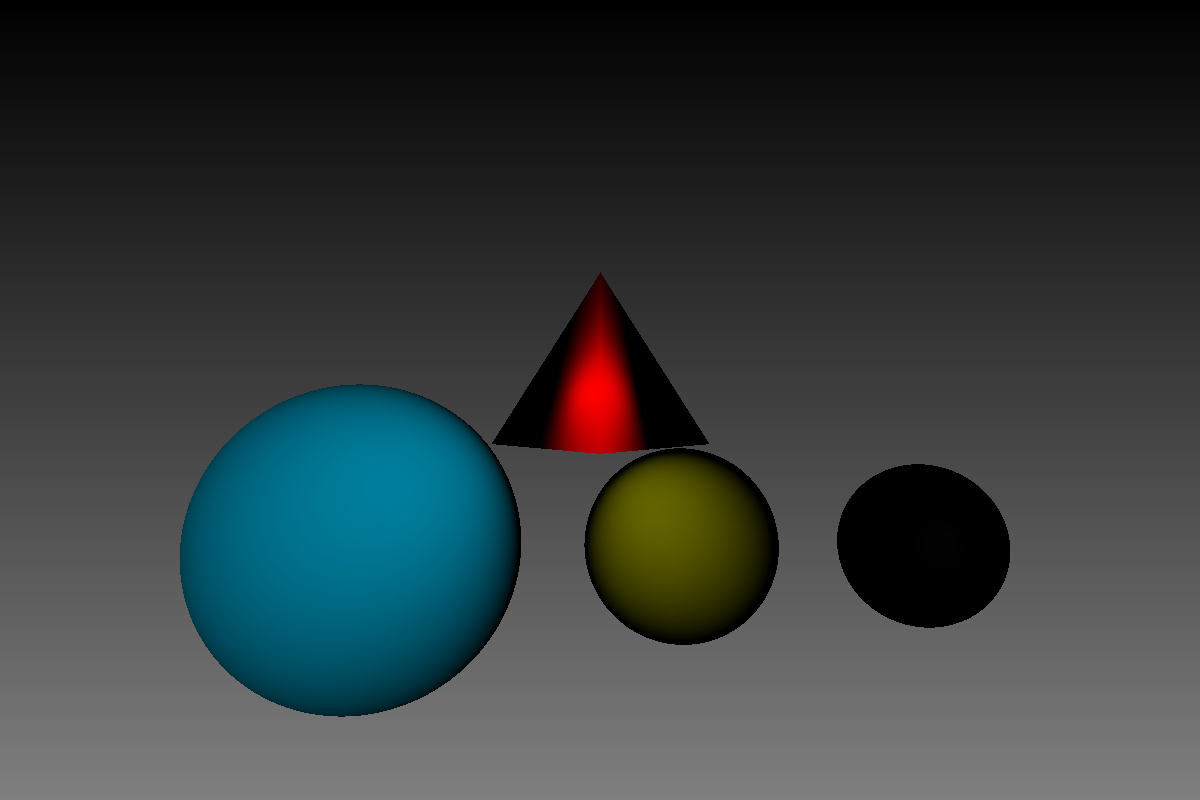
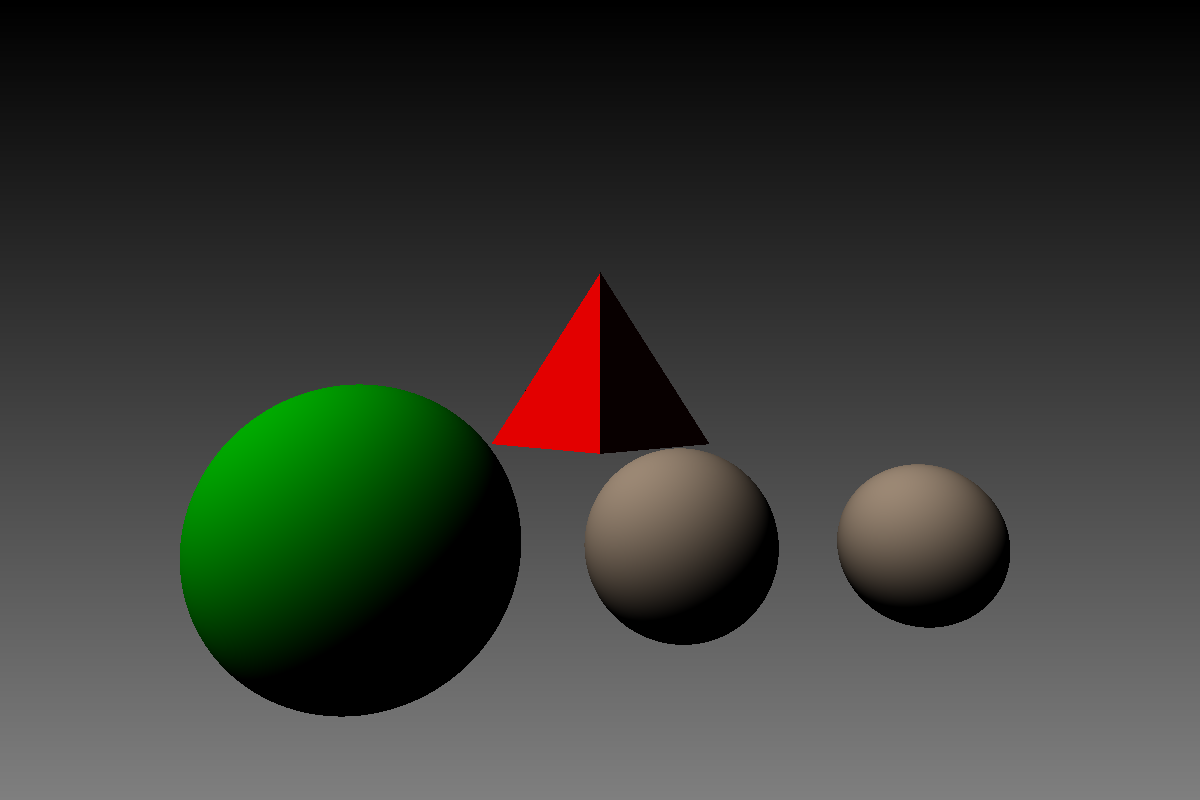
diffuse

Changed region(s): [[0.1233, 0.3438, 0.6475, 0.9062], [0.6783, 0.5625, 0.8325, 0.75]]

diff --git a/geometry/sphere.go b/geometry/sphere.go
@@ -3,35 +3,55 @@ package geometry
 import (
 	"GoPath/color"
 	. "GoPath/core"
+	"GoPath/material"
 	"math"
 )
 
+//Sphere primitive
 type Sphere struct {
 	CT          Vec
 	R           float64
 	objectColor color.Color32
+	material    material.Material
 }
 
 //Returns Normal Vector of Sphere at Hitpoint
-func (S Sphere) Normal(ray Ray, HitPoint Vec) Vec {
+func (S *Sphere) Normal(ray Ray, HitPoint Vec) Vec {
 	Nhit := HitPoint.Sub(S.CT).Normalized()
 
 	return Nhit
 }
 
-func NewSphere(center Vec, radius float64) Sphere {
-	return Sphere{center, radius, color.Gray32(0.8)}
+//SetMaterial defines a Material for the Sphere
+func (S *Sphere) SetMaterial(mat material.Material) {
+	S.material = mat
 }
 
+//Material returns the Spheres Material
+func (S *Sphere) Material() material.Material {
+	return S.material
+}
+
+//NewSphere creates a new Sphere with default Material
+func NewSphere(center Vec, radius float64) *Sphere {
+	return &Sphere{
+		CT:          center,
+		R:           radius,
+		objectColor: color.Gray32(0.8),
+		material:    material.Default()}
+}
+
+//SetObjectColor sets an ObjectColor
 func (S *Sphere) SetObjectColor(c color.Color32) {
 	S.objectColor = c
 }
 
-func (S Sphere) ObjectColor() color.Color32 {
+//ObjectColor returns Objectcolor
+func (S *Sphere) ObjectColor() color.Color32 {
 	return S.objectColor
 }
 
-//returns true if Ray intersects Sphere and sets t to depth of Hitpoint
+//Intersect returns true if Ray intersects Sphere and sets t to depth of Hitpoint
 func (S Sphere) Intersect(ray Ray, t *float64) bool {
 	L := S.CT.Sub(ray.O)
 	tca := Dot(L, ray.D)

diff --git a/core/vec.go b/core/vec.go
@@ -1,7 +1,9 @@
 package core
 
-import ("math" 
-		"fmt")
+import (
+	"fmt"
+	"math"
+)
 
 type Vec struct {
 	X, Y, Z float64
@@ -27,14 +29,14 @@ func (a *Vec) Sub(b Vec) Vec {
 
 //Returns the Length of a Vector as float64
 func (v *Vec) Length() float64 {
-	return math.Sqrt(v.X * v.X + v.Y * v.Y + v.Z * v.Z)
+	return math.Sqrt(v.X*v.X + v.Y*v.Y + v.Z*v.Z)
 }
 
 //Normalizes an Vector and returns it
 func (v *Vec) Normalize() Vec {
 	len := v.Length()
 	if len > 0 {
-		invLen := 1/len
+		invLen := 1 / len
 		v.X *= invLen
 		v.Y *= invLen
 		v.Z *= invLen
@@ -43,11 +45,11 @@ func (v *Vec) Normalize() Vec {
 }
 
 //Method - returns normalized Vector
-func(a Vec) Normalized() Vec {
+func (a Vec) Normalized() Vec {
 	len := a.Length()
 	V := a
-	
-	if(len > 0) {
+
+	if len > 0 {
 		invLen := 1 / len
 		V.X *= invLen
 		V.Y *= invLen
@@ -56,19 +58,27 @@ func(a Vec) Normalized() Vec {
 	return V
 }
 
+//Method - Negated
+func (a Vec) Negated() Vec {
+	V := a
+	V.X = -a.X
+	V.Y = -a.Y
+	V.Z = -a.Z
+	return V
+}
+
 func Dot(a, b Vec) float64 {
 	//function - Dot Product
-	return a.X * b.X + a.Y * b.Y + a.Z * b.Z
+	return a.X*b.X + a.Y*b.Y + a.Z*b.Z
 }
 
 func Cross(a, b Vec) Vec {
 	//function - Cross Product
-	return Vec{	a.Y * b.Z - a.Z * b.Y,
-				a.Z * b.X - a.X * b.Z,
-				a.X * b.Y - a.Y * b.X}
+	return Vec{a.Y*b.Z - a.Z*b.Y,
+		a.Z*b.X - a.X*b.Z,
+		a.X*b.Y - a.Y*b.X}
 	//TODO: Eventuell normalized() zurückgeben
 }
-
 
 //Multiplies a Vector with a float64 and returns it.
 func (v *Vec) Multiply(f float64) Vec {

diff --git a/render/render.go b/render/render.go
@@ -1,12 +1,12 @@
 package render
 
 import (
-	"image"
-
 	"GoPath/color"
 	. "GoPath/core"
 	"GoPath/geometry"
 	"GoPath/util"
+	"image"
+	"math"
 )
 
 func Render(objectArray []geometry.Geometry, cam_or Vec, WIDTH, HEIGHT int, filename string) {
@@ -59,21 +59,19 @@ func Render(objectArray []geometry.Geometry, cam_or Vec, WIDTH, HEIGHT int, file
 			}
 
 			if intersect == true {
+				//hitColor = hitObject->albedo / M_PI * light->intensity * light->color * std::max(0.f, hitNormal.dotProduct(L));
+
 				HitPoint := ray.O.Add(ray.D.Multiply(tMin))
+				Normal := objectArray[ObjectHitIndex].Normal(ray, HitPoint)
 
-				//Light Attendance
-				LightPos := Vec{-6, 1, 1}
-				LightAttendance := Dot(HitPoint.Normalized(), LightPos.Normalized())
+				LightDir := Vec{0.3, -0.4, -0.6}.Normalized()
+				L := LightDir.Negated()
 
-				//Placeholder Color TODO!
-				//Color Spheres (color multiplied with Light Attendance)
-				//col = color.Gray32(float32(ObjectHitIndex) / 5)
+				c1 := color.Divide(cObj.Material().BaseColor(), color.Gray32(3.14))
+				cMax := float32(math.Max(0.0, Dot(Normal, L)))
+				c2 := color.MultiplyF(color.Color32{0.8, 0.7, 0.6}, 3*cMax)
+				col = color.Multiply(c1, c2)
 
-				//Normal:
-				col = color.FromVec(objectArray[ObjectHitIndex].Normal(ray, HitPoint))
-
-				//Objectcolor * Light Attendance
-				col = color.Multiply(cObj.ObjectColor(), color.Gray32(float32(LightAttendance)))
 				col.Clamp()
 			}
 			//convert float32 colors to 24 bit (0-255) color and save

diff --git a/main.go b/main.go
@@ -1,16 +1,13 @@
 package main
 
 import (
-	"fmt"
-
-	//"strconv"
-	//"time"
-
 	"GoPath/color"
 	. "GoPath/core"
-
 	"GoPath/geometry"
+	"GoPath/material"
 	. "GoPath/render"
+	"fmt" //"strconv"
+	//"time"
 )
 
 func main() {
@@ -25,8 +22,12 @@ func main() {
 	sp2 := geometry.NewSphere(Vec{0, 1.5, -0.9}, 1)
 	sp3 := geometry.NewSphere(Vec{0, -2, -0.9}, 0.5)
 
-	sp1.SetObjectColor(color.Color32{1, 1, 0})
-	sp2.SetObjectColor(color.Color32{0, 0.8, 1})
+	sp2.SetMaterial(material.StandardMaterial{
+		Color:     color.GREEN,
+		Specular:  0.5,
+		Roughness: 0,
+		Rim:       0,
+	})
 
 	//CuPyramid
 	v1 := Vec{-0.5, 0, -0.3}
@@ -34,12 +35,12 @@ func main() {
 	v3 := Vec{0.5, 0.75, -0.3}
 	v4 := Vec{0, 0, 0.8}
 
-	tri1 := geometry.Tri{v2, v1, v3}
-	tri2 := geometry.Tri{v4, v2, v1}
-	tri3 := geometry.Tri{v2, v3, v4}
-	tri4 := geometry.Tri{v1, v3, v4}
+	tri1 := geometry.NewTri(v2, v1, v3)
+	tri2 := geometry.NewTri(v4, v2, v1)
+	tri3 := geometry.NewTri(v2, v3, v4)
+	tri4 := geometry.NewTri(v1, v3, v4)
 
-	ObArray := []geometry.Geometry{&sp1, &sp2, &sp3, &tri1, &tri2, &tri3, &tri4}
+	ObArray := []geometry.Geometry{sp1, sp2, sp3, tri1, tri2, tri3, tri4}
 
 	/*
 		//Benchmark

diff --git a/geometry/tri.go b/geometry/tri.go
@@ -3,11 +3,17 @@ package geometry
 import (
 	"GoPath/color"
 	. "GoPath/core"
+	"GoPath/material"
 	//"math"
 )
 
 type Tri struct {
-	A, B, C Vec
+	A, B, C  Vec
+	material material.Material
+}
+
+func NewTri(A, B, C Vec) *Tri {
+	return &Tri{A, B, C, material.Diffuse{color.Gray32(0.8)}}
 }
 
 func (tri Tri) Normal(ray Ray, HitPoint Vec) Vec {
@@ -18,7 +24,7 @@ func (tri Tri) Normal(ray Ray, HitPoint Vec) Vec {
 	return Cross(ac, ab)
 }
 
-func (tri Tri) ObjectColor() color.Color32 {
+func (tri *Tri) ObjectColor() color.Color32 {
 	return color.Color32{1, 0, 0}
 }
 
@@ -57,4 +63,12 @@ func (tri Tri) Intersect(ray Ray, t *float64) bool {
 	}
 
 	return true
+}
+
+func (T Tri) SetMaterial(mat material.Material) {
+	T.material = mat
+}
+
+func (T Tri) Material() material.Material {
+	return T.material
 }

diff --git a/color/blendmodes.go b/color/blendmodes.go
@@ -3,17 +3,20 @@ package color
 //different Blendmodes for Color32
 
 func Multiply(c1, c2 Color32) Color32 {
-	return Color32{c1.R * c2.R, c1.G * c2.G, c1.B * c2.G}
+	return Color32{c1.R * c2.R, c1.G * c2.G, c1.B * c2.B}
+}
+
+func MultiplyF(c1 Color32, val float32) Color32 {
+	return Color32{c1.R * val, c1.G * val, c1.B * val}
 }
 
 func Divide(c1, c2 Color32) Color32 {
-	return Color32{c1.R / c2.R, c1.G / c2.G, c1.B / c2.G}
+	return Color32{c1.R / c2.R, c1.G / c2.G, c1.B / c2.B}
 }
 
-func DivideVal(c1 Color32, val float32) Color32 {
+func DivideF(c1 Color32, val float32) Color32 {
 	return Color32{c1.R / val, c1.G / val, c1.B / val}
 }
-
 
 func Add(c1, c2 Color32) Color32 {
 	return Color32{c1.R + c2.R, c1.G + c2.G, c1.B + c2.G}

diff --git a/material/material.go b/material/material.go
@@ -1,0 +1,39 @@
+package material
+
+import "GoPath/color"
+
+type Material interface {
+	BaseColor() color.Color32
+	GetSpecular() float32
+}
+
+type Diffuse struct {
+	Color color.Color32
+}
+
+func (D Diffuse) BaseColor() color.Color32 {
+	return color.Color32{1, 0, 0}
+}
+
+func (D Diffuse) GetSpecular() float32 {
+	return 0
+}
+
+type StandardMaterial struct {
+	Color     color.Color32
+	Specular  float32
+	Roughness float32
+	Rim       float32
+}
+
+func (m StandardMaterial) BaseColor() color.Color32 {
+	return m.Color
+}
+
+func (m StandardMaterial) GetSpecular() float32 {
+	return 0.5
+}
+
+func Default() Material {
+	return StandardMaterial{Color: color.Gray32(0.8)}
+}

diff --git a/geometry/geometry.go b/geometry/geometry.go
@@ -3,6 +3,7 @@ package geometry
 import (
 	"GoPath/color"
 	. "GoPath/core"
+	"GoPath/material"
 )
 
 //TODO: Figure out how I can use different Objects in an Array for the Scene
@@ -10,4 +11,6 @@ type Geometry interface {
 	Intersect(ray Ray, t *float64) bool
 	Normal(ray Ray, HitPoint Vec) Vec
 	ObjectColor() color.Color32
+	SetMaterial(mat material.Material)
+	Material() material.Material
 }

diff --git a/color/presets.go b/color/presets.go
@@ -1,0 +1,9 @@
+package color
+
+//schöner plz
+var RED Color32 = Color32{1, 0, 0}
+var GREEN Color32 = Color32{0, 1, 0}
+var BLUE Color32 = Color32{0, 0, 1}
+var YELLOW Color32 = Color32{1, 1, 0}
+var MAGENTA Color32 = Color32{1, 0, 1}
+var CYAN Color32 = Color32{0, 1, 1}
